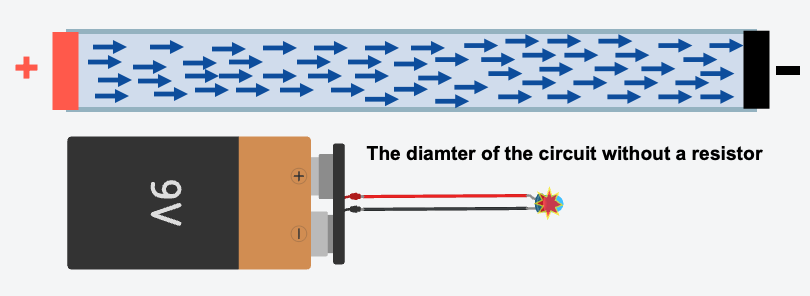
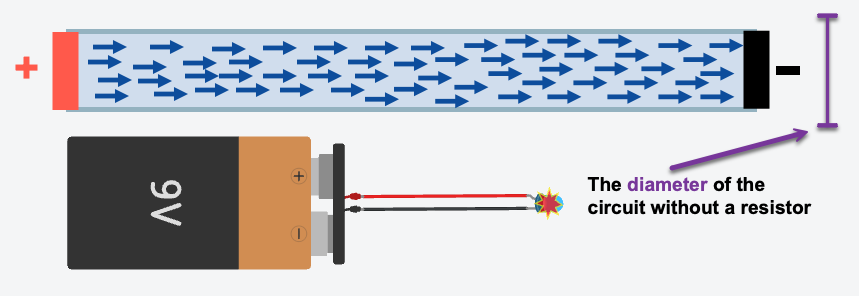
Replaced Water Pipe Analogy

diff --git a/md-articles/content/2026-07-25-tinkercad-circuits-lesson-2.md b/md-articles/content/2026-07-25-tinkercad-circuits-lesson-2.md
@@ -37,13 +37,20 @@ By the end of this lesson, the student will be able to:
 
 ## 🚀 Tutorial
 
-### The Water Pipe Analogy
+In this lesson we are going to meet a new part called a **resistor**. A resistor slows down how much electric energy moves through a circuit. Slowing the energy down keeps the other parts safe — especially a tiny light called an **LED**.
 
-Before we start, let's look at a new way to think about electricity. Imagine electricity is water flowing through a pipe.
+### The Closed-Loop Tube Analogy
 
-- **Resistor as a Pipe Sizer:** Instead of a "kink," think of a resistor as a pipe sizer. By changing the diameter of the entire pipe, it forces the water (current) to flow at a safe, steady speed all the way around the loop.
-- **Wider Pipe (Low Resistance):** The water flows fast and easily.
-- **Narrower Pipe (High Resistance):** It is harder for the water to get through, slowing down the flow for the entire circuit.
+Before we build, let's imagine something. Picture a clear plastic tube that bends all the way around into a circle, like a donut. The tube is packed full of tiny beads, from one end to the other, with no empty spaces.
+
+The battery is the **pusher**. It pushes on the beads so every bead moves around and around the loop together. Those moving beads are the **current** — the electricity flowing through your circuit.
+
+Now let's swap out one small piece of the tube for a piece that is stuffed with bumps and narrow gaps. That bumpy piece is the **resistor**. The beads have to bump, squeeze, and wiggle their way through it. Squeezing through slows down _every_ bead in the whole loop, so fewer beads go past you each second. That is exactly what resistance does to electric current!
+
+- **A Resistor is the Bumpy Part:** It does not push or pull. It just makes the beads work harder to get through, which sets a safe, steady speed for the entire loop.
+- **A Few Bumps (Low Resistance):** The beads slide through easily and lots of energy reaches the LED.
+- **Lots of Bumps (High Resistance):** The beads have a hard time squeezing through, so the whole loop slows down and less energy reaches the LED.
+- **No Bumps at All (No Resistor):** The beads race around so fast that the LED cannot handle it — and it pops!
 
 ![A closed LED circuit without Resistor](/images/TinkerCAD-Circuits-L02-Circuit-without-Resistor.png)
 
@@ -51,7 +58,7 @@ Before we start, let's look at a new way to think about electricity. Imagine ele
 
 ### Activity 1: The "Pop" (The Danger of Too Much Power)
 
-- **Concept**: LEDs are very sensitive components and cannot handle the full pressure (Voltage) of a 9V battery. They need a "safety guard."
+- **Concept**: LEDs are very sensitive components and cannot handle the full push (Voltage) of a 9V battery. They need a "safety guard."
 - **Activity**:
   1.  Place a 9V battery and a Red LED in Tinkercad Circuits.
   2.  Connect the Red (Positive) wire directly to the LED's Anode (bent leg).
@@ -71,7 +78,7 @@ Before we start, let's look at a new way to think about electricity. Imagine ele
 
 ### Activity 2: Introducing the Resistor (The Gatekeeper)
 
-- **Concept**: A resistor acts as a pipe sizer, changing the diameter of the path to slow down the flow of electricity (Current). It acts as a gatekeeper for the sensitive LED.
+- **Concept**: A resistor is the bumpy part of the loop. The beads (Current) have to squeeze through it, which slows the flow down for the whole circuit. It acts as a gatekeeper for the sensitive LED.
 - **Activity**:
   1. Click "Stop Simulation."
   2. Add a Resistor to your workspace.
@@ -95,7 +102,7 @@ Before we start, let's look at a new way to think about electricity. Imagine ele
 - **Activity**:
   1.  Click on the resistor and change its value to **100 Ω**. Click "Start Simulation." (The LED is very bright).
   2.  Stop the simulation and change the resistor value to **10,000Ω (10k)**. Click "Start Simulation." (The LED is very dim).
-- **Conclusion**: The higher the number of Ohms, the more the resistor restricts the flow (making the pipe narrower), and the dimmer the LED becomes.
+- **Conclusion**: The higher the number of Ohms, the more the resistor slows the flow (like adding more bumps for the beads to squeeze through), and the dimmer the LED becomes.
 
 <iframe
   src="https://www.youtube.com/embed/cK-tKitN_hE"
@@ -114,10 +121,10 @@ Before we start, let's look at a new way to think about electricity. Imagine ele
   - **m** = Milli (Thousandths). **1m&Omega;** is **0.001 &Omega;**.
   - **&mu;** = Micro (Millionths). **1&mu;&Omega;** is **0.000001 &Omega;**.
 - **Activity**: Look at the dropdown menu in Tinkercad.
-  - If you see **M&Omega;** (Mega), that is a **Million**. That pipe is so tight that almost no electricity can get through!
+  - If you see **M&Omega;** (Mega), that is a **Million**. That part of the tube is so packed with bumps that almost no beads can get through!
 - **The Rule**:
-  - **Bigger letters (M, G, k)** = More resistance (The pipe is getting tighter).
-  - **Little letters (m, &mu;, n, p)** = Less resistance (The pipe is getting wider).
+  - **Bigger letters (M, G, k)** = More resistance (More bumps and tighter gaps).
+  - **Little letters (m, &mu;, n, p)** = Less resistance (Fewer bumps and more open space).
 
 | Prefix   | Name  | Symbol      | Value (&Omega;)        |
 | :------- | :---- | :---------- | :--------------------- |

diff --git a/md-articles/content/2026-07-25-tinkercad-circuits-lesson-6.md b/md-articles/content/2026-07-25-tinkercad-circuits-lesson-6.md
@@ -22,7 +22,7 @@ tags:
 feature_image: "/images/Tinkercad-Circuits-Lesson-6.png"
 feature_image_alt: "TinkerCAD Circuits Lesson 6"
 feature_image_caption: "TinkerCAD Circuits Lesson 6"
-excerpt: "Let's learn how to use a knob called a potentiometer to make your light slowly get brighter and dimmer, just like a faucet controls water. Then you'll use three knobs at once to mix your very own rainbow colors!"
+excerpt: "Let's learn how to use a knob called a potentiometer to make your light slowly get brighter and dimmer by adding or removing bumps in the path the electricity takes. Then you'll use three knobs at once to mix your very own rainbow colors!"
 status: published
 prev: tinkercad-circuits-lesson-5
 next: tinkercad-circuits-lesson-7
@@ -43,7 +43,7 @@ By the end of this lesson, the student will be able to:
 ## 🎓 Did You Know?
 
 **What is a "Potentiometer"?**
-Think of a Potentiometer (or "Pot") like a water faucet. A switch can only turn the water "on" or "off." A faucet lets you turn the handle to decide exactly how much water comes out. A Potentiometer lets you turn a knob to decide exactly how much electricity flows through your circuit—making your light dimmer or brighter!
+Remember the tube packed with beads? A resistor is a bumpy section that the beads have to squeeze through. A Potentiometer (or "Pot") is a bumpy section you can _change_ with a knob. A switch can only turn the flow "on" or "off." Turning the knob on a Potentiometer adds more bumps or fewer bumps, which decides exactly how much electricity flows through your circuit—making your light dimmer or brighter!
 
 **Pro Tip for TinkerCAD:** When you click on your Potentiometer, you might see a setting for Resistance. Don't worry about this—just set it to **10kΩ** (the most common size) and leave it there!
 
@@ -158,6 +158,6 @@ The answer is **no**, because of how the electricity flows and whether the circu
 - **Series vs. Parallel Circuits**:
   - In a **series circuit**, components are connected along a single path, one after another, so the current must flow through every component sequentially.
   - In a **parallel circuit**, the electricity leaves the battery and splits into multiple independent branches or paths, allowing the current to flow through each component separately before merging back together.
-- **The Water Pipe Analogy (Series)**: If you put three narrow pipe sections _in a row_ in a single path (like a series circuit), the water has to squeeze through three tight spots back-to-back, causing the resistance to add up.
-- **The Splitting River (Parallel)**: In this parallel circuit, electricity leaves the battery and splits into **three separate, independent paths** (one for Red, one for Green, and one for Blue).
+- **The Bead Tube Analogy (Series)**: If you put three bumpy sections _in a row_ in a single path (like a series circuit), the beads have to squeeze through three tight spots back-to-back, causing the resistance to add up.
+- **The Splitting Path (Parallel)**: In this parallel circuit, electricity leaves the battery and splits into **three separate, independent paths** (one for Red, one for Green, and one for Blue).
 - **No Pile-Up**: The electricity flowing down the Red path only goes through the Red resistor. It never squeezes through the Green or Blue resistors. Because these paths run side-by-side instead of back-to-back, each individual color handles its own safety limit independently without multiplying the resistance together!

diff --git a/md-articles/content/2026-07-25-tinkercad-circuits-lesson-3.md b/md-articles/content/2026-07-25-tinkercad-circuits-lesson-3.md
@@ -84,7 +84,7 @@ By the end of this lesson, the student will be able to:
 
 ### Activity 3: The Battery’s "Toll Booths" (Voltage Drop)
 
-- **Instructor Note**: Move beyond the "squeezed pipe" to explain that a resistor doesn't just block flow in one spot—it changes the "speed" of the entire circuit. Also, introduce the idea that every component (LEDs) "takes" a specific amount of voltage as it works.
+- **Instructor Note**: Move beyond the "bumpy section of the bead tube" to explain that a resistor doesn't just block flow in one spot—it changes the "speed" of the entire circuit. Also, introduce the idea that every component (LEDs) "takes" a specific amount of voltage as it works.
 
 - **Concept**: Think of the 9V battery as a car trip with 9 units of energy.
   - If you just connect a wire, the "current" flows too fast and "crashes" the circuit.

diff --git a/md-articles/content/2026-07-25-tinkercad-circuits-lesson-4.md b/md-articles/content/2026-07-25-tinkercad-circuits-lesson-4.md
@@ -67,7 +67,7 @@ By the end of this lesson, the student will be able to:
 
 ### Activity 3: The "Overkill" Question and Custom Power
 
-- **Problem**: Is a 9V battery always necessary? Sometimes, 9V is like using a firehose to water a tiny houseplant. It is "too much" energy, which forces us to use a huge resistor to waste all that extra power.
+- **Problem**: Is a 9V battery always necessary? Sometimes, 9V is like putting a giant pusher on your bead loop when the tiny LED only needs a gentle nudge. It is "too much" energy, which forces us to use a huge resistor to waste all that extra power.
 - **Activity**:
   1. Watch the short video on how to use the **1.5V Battery** component in Tinkercad.
 
